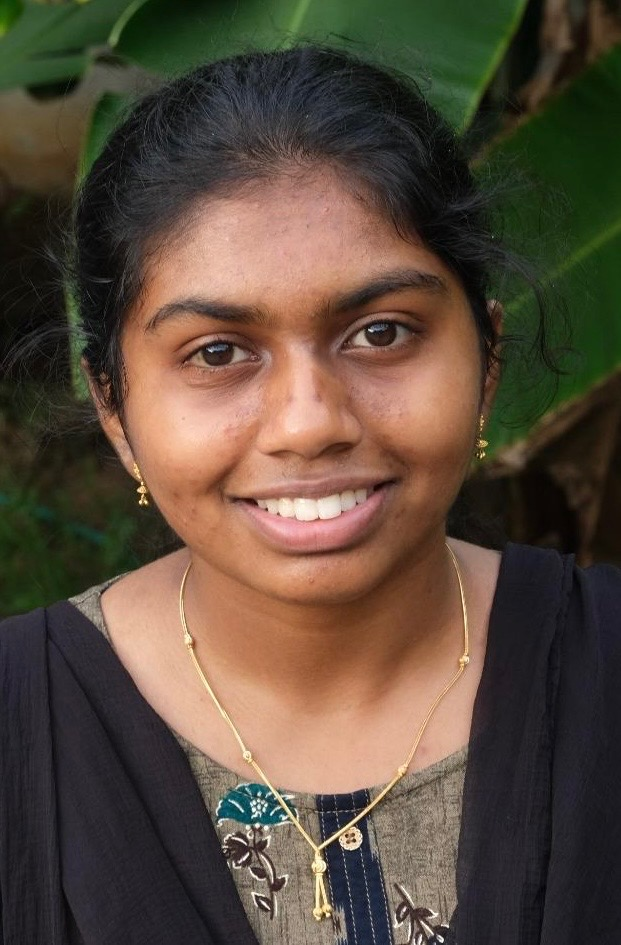
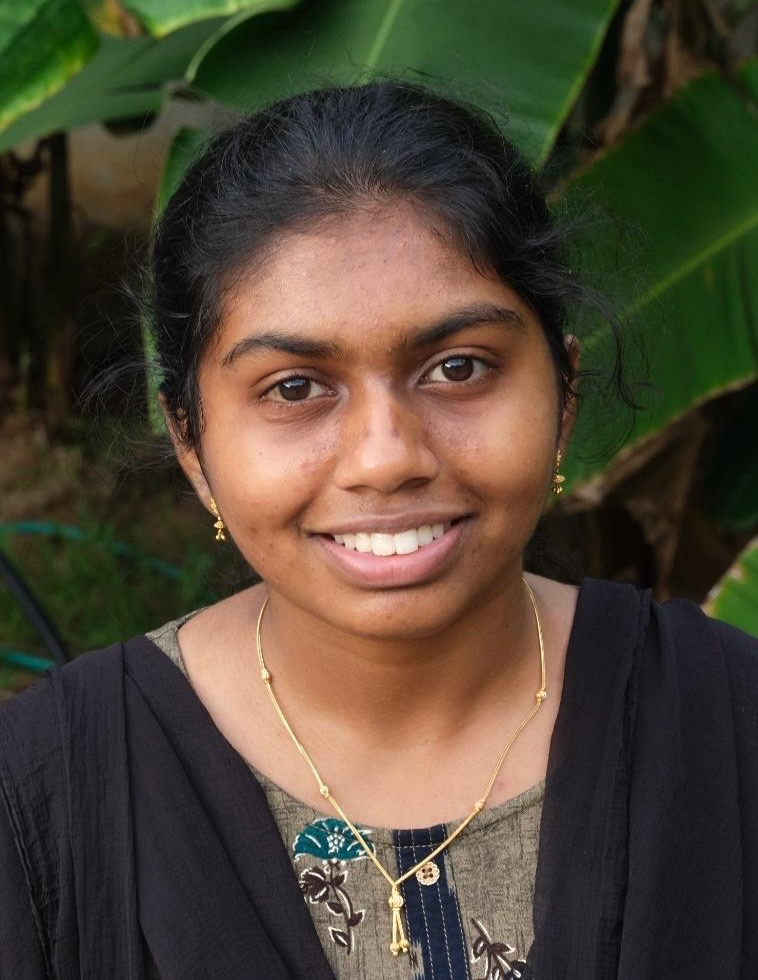
ashmitha (fixed)

diff --git a/meet-the-tutors.html b/meet-the-tutors.html
@@ -119,7 +119,7 @@
                 <div class="card text-center mx-auto">
                     <h4 class="card-title pt-2">Ashmitha Kumaran</h4>
                     <h6 class="fst-italic">Technical Director</h6>
-                    <div class="user-pic"><img src="/images/tutors/2025-2026/ashmitha.png" class="img-fluid"
+                    <div class="user-pic"><img src="/images/tutors/2025-2026/ashmitha.jpeg" class="img-fluid"
                             alt="User Pic"></div>
                     <div class="card-body text-start">
                         <p class="card-text fw-light"> Hey! My name is Ashmitha and I’m a junior at Adrian Wilcox High School. My favorite part about tutoring 
